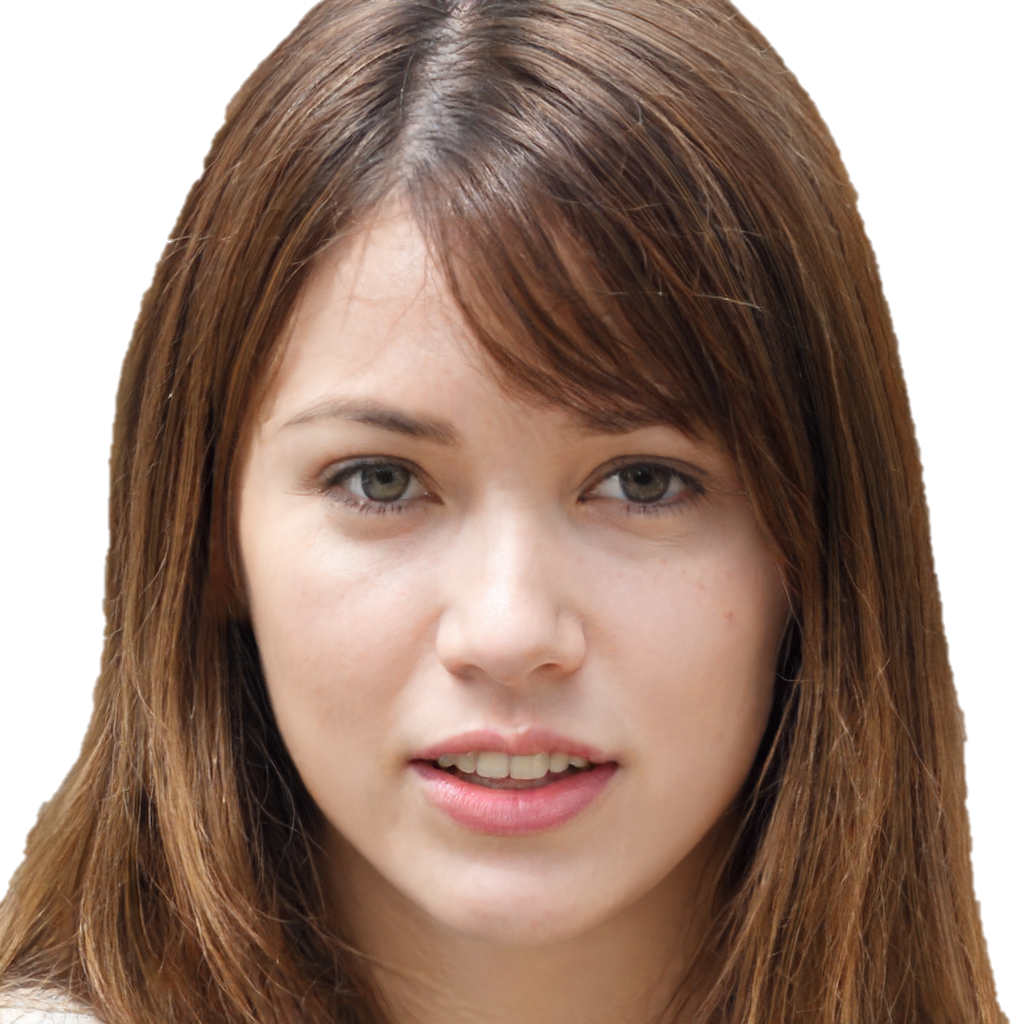
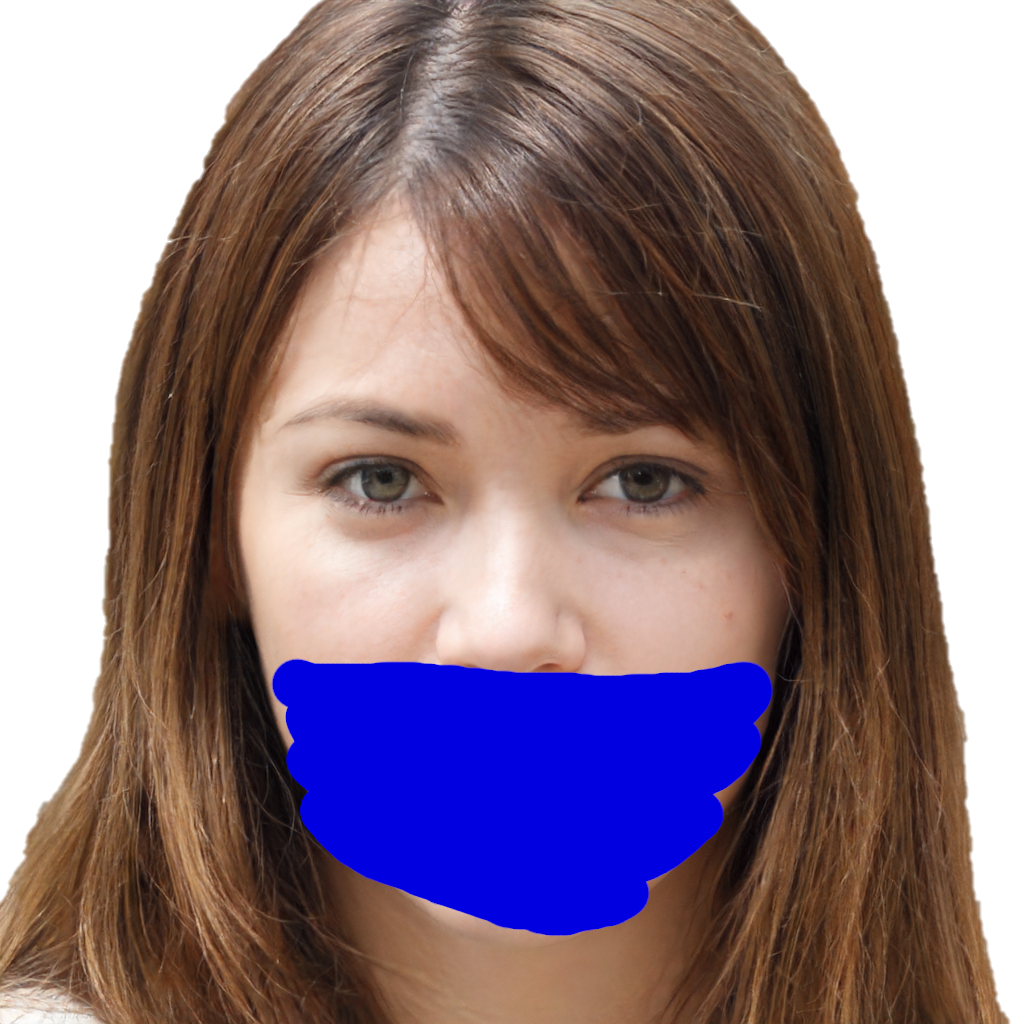
Mask detection and social distancing

Changed region(s): [[0.25, 0.625, 0.7812, 0.9375]]

diff --git a/src/main_package/scripts/Main.py b/src/main_package/scripts/Main.py
@@ -1,5 +1,6 @@
 #!/usr/bin/python3 
 
+from pickle import FALSE
 import sys
 import math
 import rospy
@@ -41,7 +42,7 @@ class TaskType(Enum):
 
 
 class Task: 
-    def __init__(self, type, id, x, y, z, norm_x, norm_y, color=False):
+    def __init__(self, type, id, x, y, z, norm_x, norm_y, color=False, wears_mask=False):
         self.id = id
         self.type = type
 
@@ -50,6 +51,7 @@ class Task:
         self.z = z 
 
         self.color = color
+        self.wears_mask = wears_mask
 
         self.norm_x = norm_x 
         self.norm_y = norm_y 
@@ -102,7 +104,7 @@ class MainNode:
         self.ring_detection_subsriber = rospy.Subscriber('ring_detection', RingDetected, self.on_ring_detection) 
         
         # soundhandle
-        # self.soundhandle = SoundClient()
+        self.soundhandle = SoundClient()
 
 
     # this runs before every execute
@@ -167,8 +169,8 @@ class MainNode:
                         self.mover.move_to(point, quat, force_reach=False)
 
 
-        if self.state == State.EXPLORE:
-            self.mover.follow_path()
+        # if self.state == State.EXPLORE:
+        #     # self.mover.follow_path()
         
 
         if self.state == State.FINISH: 
@@ -272,11 +274,14 @@ class MainNode:
         old.norm_x = updated_normal[0]
         old.norm_y = updated_normal[1]
 
+        # update mask detection
+        old.wears_mask = old.wears_mask or new.wears_mask
+
         # upadte marker
         self.publish_task_marker(old, exists=True)
 
 
-    def add_task(self, type, x, y, z, color):
+    def add_task(self, type, x, y, z, color, wears_mask):
         # Computue face normal
         robot_pose = self.mover.get_pose()
         rp_np = np.array([robot_pose.position.x, robot_pose.position.y])
@@ -285,7 +290,7 @@ class MainNode:
         normal = rp_np - tp_np
         normal = normal / np.linalg.norm(normal)
 
-        new_task = Task(type, len(self.history[type]), x, y, z, normal[0], normal[1], color)
+        new_task = Task(type, len(self.history[type]), x, y, z, normal[0], normal[1], color, wears_mask)
         old_task = self.task_exists_history(new_task)
 
         # Check if we should update the task or create a new one
@@ -314,15 +319,44 @@ class MainNode:
     #-------------------------- CALLBACKS -----------------------------
     # FACES
     def on_face_detection(self, data):
-        self.add_task(TaskType.FACE, data.world_x, data.world_y, data.world_z, False)
+        self.add_task(TaskType.FACE, data.world_x, data.world_y, data.world_z, False, data.wears_mask)
 
     def on_face_reached(self):
-        voice = 'voice_kal_diphone'
         volume = 2.0
-        s = "Hello human, how are you today?"
+        voice = 'voice_kal_diphone'
 
-        #self.soundhandle.say(s, voice, volume)
+        # TODO:
+        # 1) Greet
+        # 2) If it does not wear mask -> warn
+        # 3) Check it's social distance
+        # 4) Get info (by talking or QR code)
+        # 5) Start task of bringing him medicine
+        
+
+        # Greet
         rospy.loginfo(f"Greeting face - {self.current_task.id}")
+        s = "Hello human!"
+        self.soundhandle.say(s, voice, volume)
+
+        # Check if it wears mask
+        rospy.loginfo(f"Wears mask? - {self.current_task.wears_mask}")
+        if(self.current_task.wears_mask == False):
+            s = "Please put on your mask!"
+            self.soundhandle.say(s, voice, volume)
+
+        # Check social distancing
+        social_distancing_list = self.is_social_distancing(self.current_task)
+        print(social_distancing_list)
+        is_social_distancing = len(social_distancing_list) == 0
+        
+        rospy.loginfo(f"Follows social distancing? - {is_social_distancing}")
+        if(not is_social_distancing):
+            s = "Please keep social distance!"
+            self.soundhandle.say(s, voice, volume)
+
+        # TODO: add task to go warn other faces
+
+
         self.current_task.finished = True
         rospy.sleep(1)
 
@@ -334,7 +368,7 @@ class MainNode:
             rospy.logwarn(f"Cylinder detection: false-positive color={color}")
             return
 
-        self.add_task(TaskType.CYLINDER, data.cylinder_x, data.cylinder_y, data.cylinder_z, color)
+        self.add_task(TaskType.CYLINDER, data.cylinder_x, data.cylinder_y, data.cylinder_z, color, False)
     
     def on_cylinder_reached(self): 
     
@@ -359,7 +393,7 @@ class MainNode:
             rospy.logwarn(f"Ring detection: false-positive color={data.color}")
             return
 
-        self.add_task(TaskType.RING, data.ring_x, data.ring_y, data.ring_z, data.color)
+        self.add_task(TaskType.RING, data.ring_x, data.ring_y, data.ring_z, data.color, False)
 
     def on_ring_reached(self):
         soundhandle = SoundClient()
@@ -401,18 +435,18 @@ class MainNode:
         return qx, qy, qz, qw
 
 
-    def get_quaternions(self, fi): 
-        # q1 = math.cos(fi/2)
-        # q2 = 0
-        # q3 = 0 
-        # q4 = math.sin(fi/2)
+    # def get_quaternions(self, fi): 
+    #     # q1 = math.cos(fi/2)
+    #     # q2 = 0
+    #     # q3 = 0 
+    #     # q4 = math.sin(fi/2)
 
-        q1 = 0
-        q2 = 0
-        q3 = 0 
-        q4 = 1
+    #     q1 = 0
+    #     q2 = 0
+    #     q3 = 0 
+    #     q4 = 1
         
-        return q1, q2, q3, q4
+    #     return q1, q2, q3, q4
 
 
     def get_color_label(self, num):
@@ -440,6 +474,16 @@ class MainNode:
                         return temp
         
         return False
+
+    # TODO: take normals into account
+    def is_social_distancing(self, current_task):
+        social_dist_id = []
+        for face_task in self.history[TaskType.FACE]:
+            distance = math.sqrt((current_task.x - face_task.x)**2 + (current_task.y - face_task.y)**2) 
+            if((distance < 1.0) and (current_task.id != face_task.id)):
+                social_dist_id.append(face_task.id)
+
+        return social_dist_id;
 
 
 def main():
